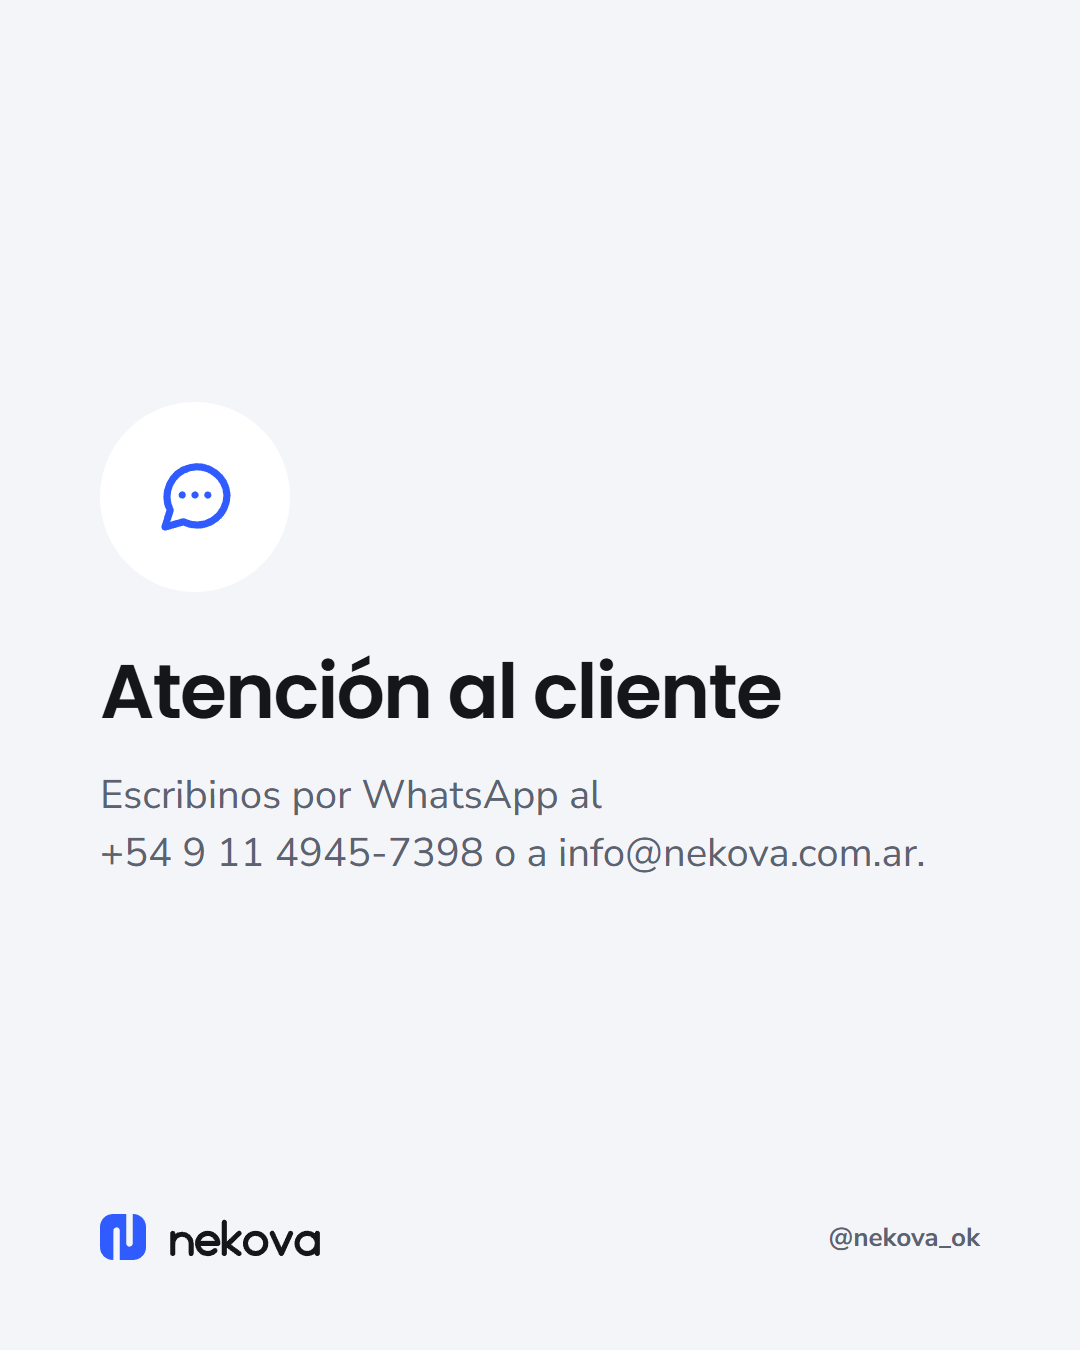
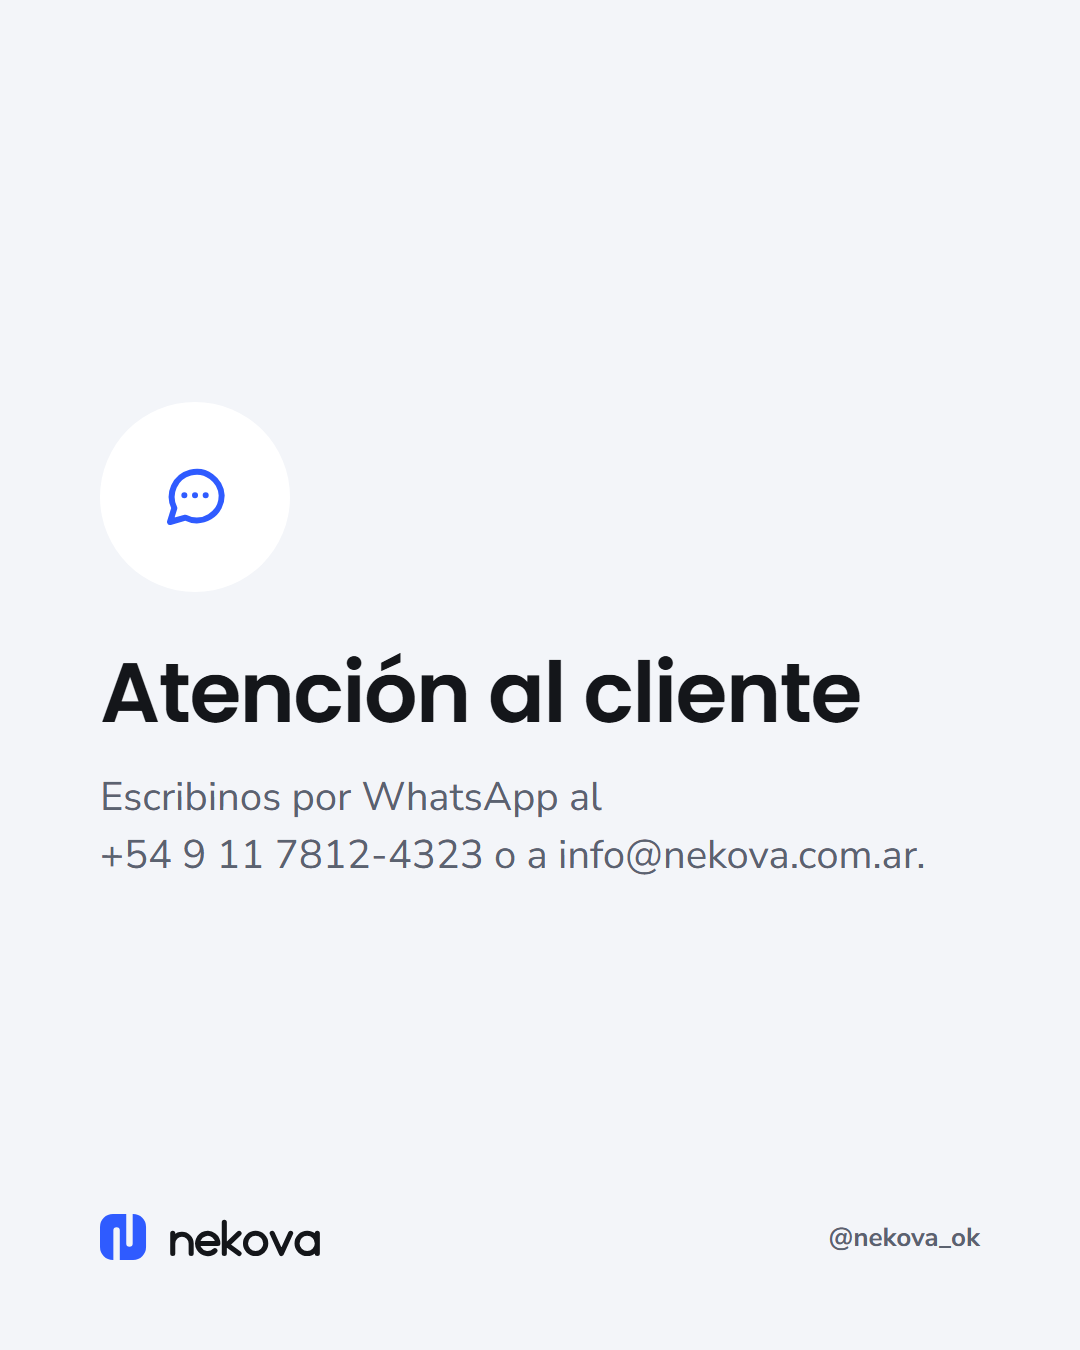
Replace the old WhatsApp number with the new business line (+54 9 11 7812-4323)
Theme preset, CLAUDE.md, policies, brand page and Instagram docs. The
'Cómo comprar' card 5 image is redrawn with the new number.

diff --git a/docs/politicas/devoluciones.html b/docs/politicas/devoluciones.html
@@ -5,7 +5,7 @@
 <p><strong>Cómo pedirlo:</strong></p>
 <ul>
 <li>Desde el <strong>Botón de arrepentimiento</strong> del sitio: <a href="https://nekova.com.ar/pages/arrepentimiento">nekova.com.ar/pages/arrepentimiento</a>. No necesitás tener cuenta.</li>
-<li>O escribiéndonos a <strong>info@nekova.com.ar</strong> o por WhatsApp al <strong>+54 9 11 4945-7398</strong>.</li>
+<li>O escribiéndonos a <strong>info@nekova.com.ar</strong> o por WhatsApp al <strong>+54 9 11 7812-4323</strong>.</li>
 </ul>
 <p><strong>Qué pasa después:</strong></p>
 <ol>
@@ -23,7 +23,7 @@
 <h2>5. Contacto</h2>
 <ul>
 <li>Email: info@nekova.com.ar</li>
-<li>WhatsApp: +54 9 11 4945-7398</li>
+<li>WhatsApp: +54 9 11 7812-4323</li>
 <li>[RAZÓN SOCIAL] · CUIT [CUIT] · [DOMICILIO]</li>
 </ul>
 <p>Si tu reclamo no se resuelve, podés acudir a la Ventanilla Única Federal de Defensa del Consumidor: <a href="https://www.argentina.gob.ar/produccion/defensadelconsumidor/formulario">argentina.gob.ar/produccion/defensadelconsumidor/formulario</a>.</p>

diff --git a/docs/politicas/terminos.html b/docs/politicas/terminos.html
@@ -1,6 +1,6 @@
 <p><strong>Última actualización:</strong> 19/10/2026</p>
 <h2>1. Quiénes somos</h2>
-<p>Este sitio (nekova.com.ar) es operado por <strong>[RAZÓN SOCIAL / NOMBRE Y APELLIDO]</strong>, CUIT <strong>[CUIT]</strong>, con domicilio en <strong>[DOMICILIO]</strong> ("Nekova"). Contacto: info@nekova.com.ar · WhatsApp +54 9 11 4945-7398.</p>
+<p>Este sitio (nekova.com.ar) es operado por <strong>[RAZÓN SOCIAL / NOMBRE Y APELLIDO]</strong>, CUIT <strong>[CUIT]</strong>, con domicilio en <strong>[DOMICILIO]</strong> ("Nekova"). Contacto: info@nekova.com.ar · WhatsApp +54 9 11 7812-4323.</p>
 <h2>2. Aceptación</h2>
 <p>Al navegar o comprar en el sitio aceptás estos términos. Si no estás de acuerdo, te pedimos que no uses el sitio.</p>
 <h2>3. Productos e información</h2>

diff --git a/marca/index.html b/marca/index.html
@@ -172,7 +172,7 @@
           </ul>
         </div>
         <div class="network">
-          <div class="network-top"><span class="avatar"><img src="redes/nekova-perfil.png" alt=""></span><div><h3>WhatsApp Business</h3><a href="https://wa.me/5491149457398" target="_blank" rel="noopener">+54 9 11 4945-7398</a></div></div>
+          <div class="network-top"><span class="avatar"><img src="redes/nekova-perfil.png" alt=""></span><div><h3>WhatsApp Business</h3><a href="https://wa.me/5491178124323" target="_blank" rel="noopener">+54 9 11 7812-4323</a></div></div>
           <ul>
             <li><strong>Perfil: nekova-perfil.png</strong><span>La misma que en las otras redes, así el cliente reconoce la marca al escribir desde la web.</span></li>
           </ul>

diff --git a/docs/politicas/envios.html b/docs/politicas/envios.html
@@ -23,4 +23,4 @@
 <h2>Datos de entrega</h2>
 <p>Verificá la dirección antes de pagar. Si la dirección es incorrecta o está incompleta y el envío vuelve, el nuevo envío puede tener un costo adicional.</p>
 <h2>Contacto</h2>
-<p>info@nekova.com.ar · WhatsApp +54 9 11 4945-7398</p>
+<p>info@nekova.com.ar · WhatsApp +54 9 11 7812-4323</p>

diff --git a/CLAUDE.md b/CLAUDE.md
@@ -18,7 +18,7 @@ Propio (editar con libertad):
 - `sections/nekova-trust-bar.liquid`: franja de beneficios con íconos debajo del header (en `header-group.json`, bloques editables). En pantallas < 1200px se desplaza en loop (sin animación si el usuario pide movimiento reducido). La barra de anuncios de Dawn (arriba del logo) está deshabilitada porque repetía estos mensajes; se puede reactivar para promociones.
 - `sections/nekova-footer.liquid`: footer propio en `footer-group.json` (el footer de Dawn queda deshabilitado). 3 columnas iguales sobre negro: marca (logo en blanco con `filter`, texto, redes), Ayuda (menú elegido en el editor o, si no hay, links por defecto: preguntas frecuentes `/#preguntas-frecuentes`, envíos y devoluciones, contacto y las políticas de Shopify que existan; más email de la tienda `shop.email`, WhatsApp y horario si se cargan en el editor) y Novedades (formulario de newsletter con tag `newsletter`). Abajo: copyright e íconos de medios de pago activos. Los textos están en los settings de la sección.
 - **Meta Ads:** cuenta publicitaria de Nekova, ID `2492377254519803`. Usarla en todo brief o tarea de anuncios.
-- **Contacto centralizado**: grupo de configuración del tema "Nekova · contacto" (`settings_schema.json`): `nekova_whatsapp` (+54 9 11 4945-7398), `nekova_whatsapp_message`, `nekova_whatsapp_float` y `nekova_email` (info@nekova.com.ar). Lo usan el botón flotante (`snippets/nekova-whatsapp-float.liquid`, renderizado desde el footer, verde WhatsApp oscuro `#0f7d70` por contraste), el footer, la página de contacto, la FAQ "¿Cómo me comunico con ustedes?" y los íconos de redes. Redes: settings estándar de Dawn `social_instagram_link`, `social_facebook_link`, `social_tiktok_link`; `snippets/nekova-social-icons.liquid` muestra solo las que tienen link.
+- **Contacto centralizado**: grupo de configuración del tema "Nekova · contacto" (`settings_schema.json`): `nekova_whatsapp` (+54 9 11 7812-4323), `nekova_whatsapp_message`, `nekova_whatsapp_float` y `nekova_email` (info@nekova.com.ar). Lo usan el botón flotante (`snippets/nekova-whatsapp-float.liquid`, renderizado desde el footer, verde WhatsApp oscuro `#0f7d70` por contraste), el footer, la página de contacto, la FAQ "¿Cómo me comunico con ustedes?" y los íconos de redes. Redes: settings estándar de Dawn `social_instagram_link`, `social_facebook_link`, `social_tiktok_link`; `snippets/nekova-social-icons.liquid` muestra solo las que tienen link.
 - **Botón de arrepentimiento** (obligatorio, Res. 424/2020): `sections/nekova-withdrawal.liquid` + `templates/page.arrepentimiento.json` (en Shopify: página con handle `arrepentimiento` y plantilla "arrepentimiento"). Formulario de contacto de Shopify (llega al email de la tienda con "Tipo de consulta: Arrepentimiento de compra"); el dueño responde dentro de las 24hs con un código de identificación. Link destacado en la barra inferior del footer y en Ayuda.
 - **Ventas** (`nekova-product`): lista de espera por color agotado (`.nk-waitlist`, formulario de cliente con tags `back-in-stock-<handle>-<color>`; la de producto entero agotado ya existía); combo con el producto complementario (`nk_combo_handle` por producto, cojín ↔ tapones, vía `all_products`; botón "Agregar los dos" que llama a `/cart/add.js` y va al carrito; textos `combo_heading`/`combo_note` en el editor; el descuento se crea en Shopify → Descuentos); envío gratis desde un monto: setting del tema "Nekova · ventas" → `nekova_free_shipping_threshold` (vacío = no se muestra), aviso en la ficha y barra de progreso en el carrito (`snippets/nekova-free-shipping.liquid` en `main-cart-footer`); la tarifa gratis real se configura en Shopify → Envíos. Reseñas: la sección de producto ya acepta bloques de apps (`@app`) y muestra el bloque de reseñas solo si hay alguno.
 - **Documentos del negocio** en `docs/` (no son parte del tema): `docs/politicas/` (devoluciones, envíos, términos; para pegar en Shopify → Políticas, con datos a completar entre corchetes), `docs/guiones-anuncios.md` (5 guiones de video para Meta + lista de tomas) y `docs/negocio/costos-y-margenes.xlsx` (costo puesto y margen por unidad, prueba aérea vs. barco).

diff --git a/docs/politicas/devoluciones.md b/docs/politicas/devoluciones.md
@@ -14,7 +14,7 @@ Si compraste en nekova.com.ar, tenés derecho a revocar la compra dentro de los 
 **Cómo pedirlo:**
 
 - Desde el **Botón de arrepentimiento** del sitio: [nekova.com.ar/pages/arrepentimiento](https://nekova.com.ar/pages/arrepentimiento). No necesitás tener cuenta.
-- O escribiéndonos a **info@nekova.com.ar** o por WhatsApp al **+54 9 11 4945-7398**.
+- O escribiéndonos a **info@nekova.com.ar** o por WhatsApp al **+54 9 11 7812-4323**.
 
 **Qué pasa después:**
 
@@ -39,7 +39,7 @@ Si querés otro color o modelo, gestionamos la devolución según el punto 1 y h
 ## 5. Contacto
 
 - Email: info@nekova.com.ar
-- WhatsApp: +54 9 11 4945-7398
+- WhatsApp: +54 9 11 7812-4323
 - [RAZÓN SOCIAL] · CUIT [CUIT] · [DOMICILIO]
 
 Si tu reclamo no se resuelve, podés acudir a la Ventanilla Única Federal de Defensa del Consumidor: [argentina.gob.ar/produccion/defensadelconsumidor/formulario](https://www.argentina.gob.ar/produccion/defensadelconsumidor/formulario).

diff --git a/docs/instagram-primeras-publicaciones.md b/docs/instagram-primeras-publicaciones.md
@@ -319,7 +319,7 @@ Muy pronto en nekova.com.ar (link en la bio) ✨
 
 **Placa 4:** fondo blanco, ícono de flecha de vuelta, título "10 días para devolverlo", texto "Si no te convence, podés arrepentirte desde el botón de arrepentimiento de la web."
 
-**Placa 5:** fondo gris claro, ícono de globo de chat, título "Atención al cliente", texto "Escribinos por WhatsApp al +54 9 11 4945-7398 o a info@nekova.com.ar."
+**Placa 5:** fondo gris claro, ícono de globo de chat, título "Atención al cliente", texto "Escribinos por WhatsApp al +54 9 11 7812-4323 o a info@nekova.com.ar."
 
 **Texto:**
 ```

diff --git a/docs/politicas/terminos.md b/docs/politicas/terminos.md
@@ -7,7 +7,7 @@
 
 ## 1. Quiénes somos
 
-Este sitio (nekova.com.ar) es operado por **[RAZÓN SOCIAL / NOMBRE Y APELLIDO]**, CUIT **[CUIT]**, con domicilio en **[DOMICILIO]** ("Nekova"). Contacto: info@nekova.com.ar · WhatsApp +54 9 11 4945-7398.
+Este sitio (nekova.com.ar) es operado por **[RAZÓN SOCIAL / NOMBRE Y APELLIDO]**, CUIT **[CUIT]**, con domicilio en **[DOMICILIO]** ("Nekova"). Contacto: info@nekova.com.ar · WhatsApp +54 9 11 7812-4323.
 
 ## 2. Aceptación
 

diff --git a/docs/politicas/envios.md b/docs/politicas/envios.md
@@ -33,4 +33,4 @@ Verificá la dirección antes de pagar. Si la dirección es incorrecta o está i
 
 ## Contacto
 
-info@nekova.com.ar · WhatsApp +54 9 11 4945-7398
+info@nekova.com.ar · WhatsApp +54 9 11 7812-4323
